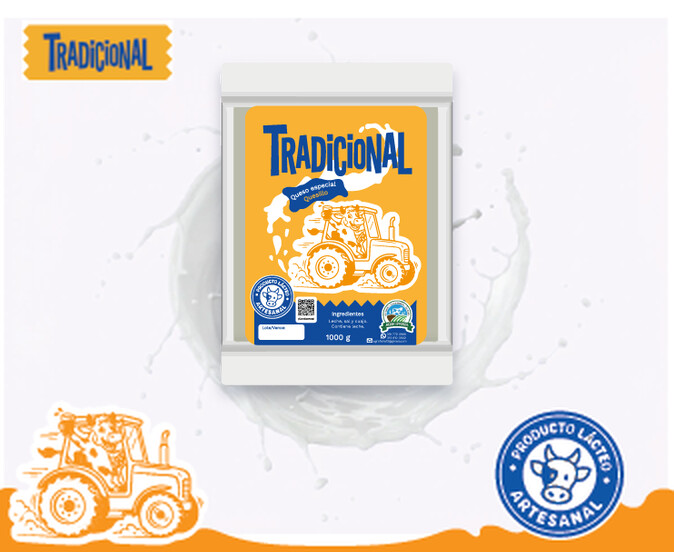
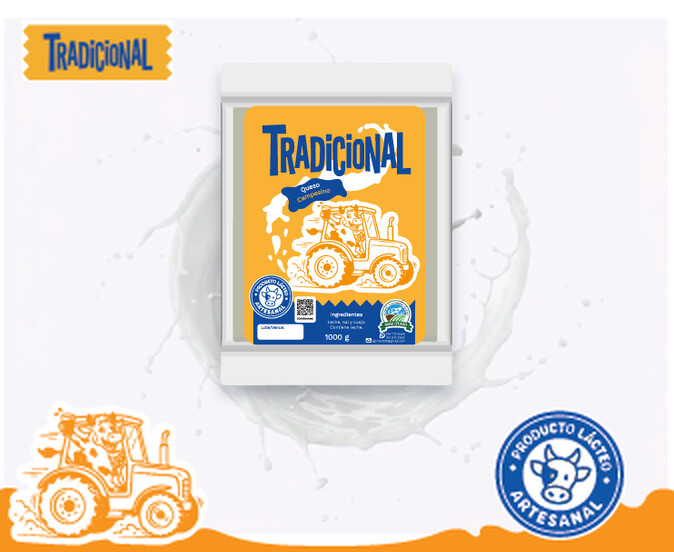
Fotos corregidas de queso campesino y quesillo

Changed region(s): [[0.3427, 0.2156, 0.6543, 0.6467], [0.3116, 0.1848, 0.3427, 0.2772]]

diff --git a/src/data/fotos.ts b/src/data/fotos.ts
@@ -6,12 +6,12 @@ import type { ImageMetadata } from 'astro';
  * Una segunda versión del producto (p. ej. el snack con bocadillo) va en <slug>-2.jpg.
  *
  * Para cambiar una foto: volver a componerla con el fondo de la diseñadora y reemplazar el archivo.
- * PENDIENTE: foto del quesillo (por ahora muestra solo el fondo con el ícono provisional).
+ * Todos los productos tienen foto de empaque.
  */
 const archivos = import.meta.glob<ImageMetadata>('../assets/productos/tarjetas/*.jpg', { eager: true, import: 'default' });
 
 /** Productos cuya imagen aún no incluye el empaque. */
-const sinEmpaque = new Set(['quesillo']);
+const sinEmpaque = new Set<string>();
 
 export function fotosDe(slug: string): ImageMetadata[] {
   return Object.entries(archivos)

diff --git a/DESIGN.md b/DESIGN.md
@@ -145,7 +145,7 @@ Píldora con texto y flecha en un círculo de 38px. Variantes: primario azul (te
 Única etiqueta de producto: las letras oficiales en imagen sobre azul (Pal' Arranque) o naranja (Tradicional). En tarjetas y fichas van como **cinta con borde triangulado** arriba y abajo (`cinta`), esquina superior izquierda de la imagen; en el navbar, como píldora. No hay etiqueta de texto "100% Artesanal": esa información la da el sello.
 
 ### Imagen de producto compuesta
-Cada producto lleva una imagen ya compuesta en `src/assets/productos/tarjetas/<slug>.jpg`: fondo de ingredientes de la diseñadora (guayaba y quesillo, frutas, granola, leche), etiqueta de línea, personaje, ola de color, sello y la foto del empaque encima. Se muestra completa (proporción 337:276) en tarjetas, en el encabezado y en la ficha de la página de producto. Un producto con dos versiones usa `<slug>-2.jpg` y un selector en el encabezado. El sello dibujado en la imagen tiene encima un botón invisible que abre el visor. Sin foto del empaque (quesillo) se muestra el fondo con el ícono provisional.
+Cada producto lleva una imagen ya compuesta en `src/assets/productos/tarjetas/<slug>.jpg`: fondo de ingredientes de la diseñadora (guayaba y quesillo, frutas, granola, leche), etiqueta de línea, personaje, ola de color, sello y la foto del empaque encima. Se muestra completa (proporción 337:276) en tarjetas, en el encabezado y en la ficha de la página de producto. Un producto con dos versiones usa `<slug>-2.jpg` y un selector en el encabezado. El sello dibujado en la imagen tiene encima un botón invisible que abre el visor.
 
 ### Sello artesanal (`SelloArtesanal`, `SelloLightbox`)
 Sello redondo "Producto Lácteo Artesanal" en la esquina inferior derecha de la imagen de cada tarjeta y de la ficha del producto (no en el termo). Es un botón: al hacer clic se abre en grande en un visor modal.
